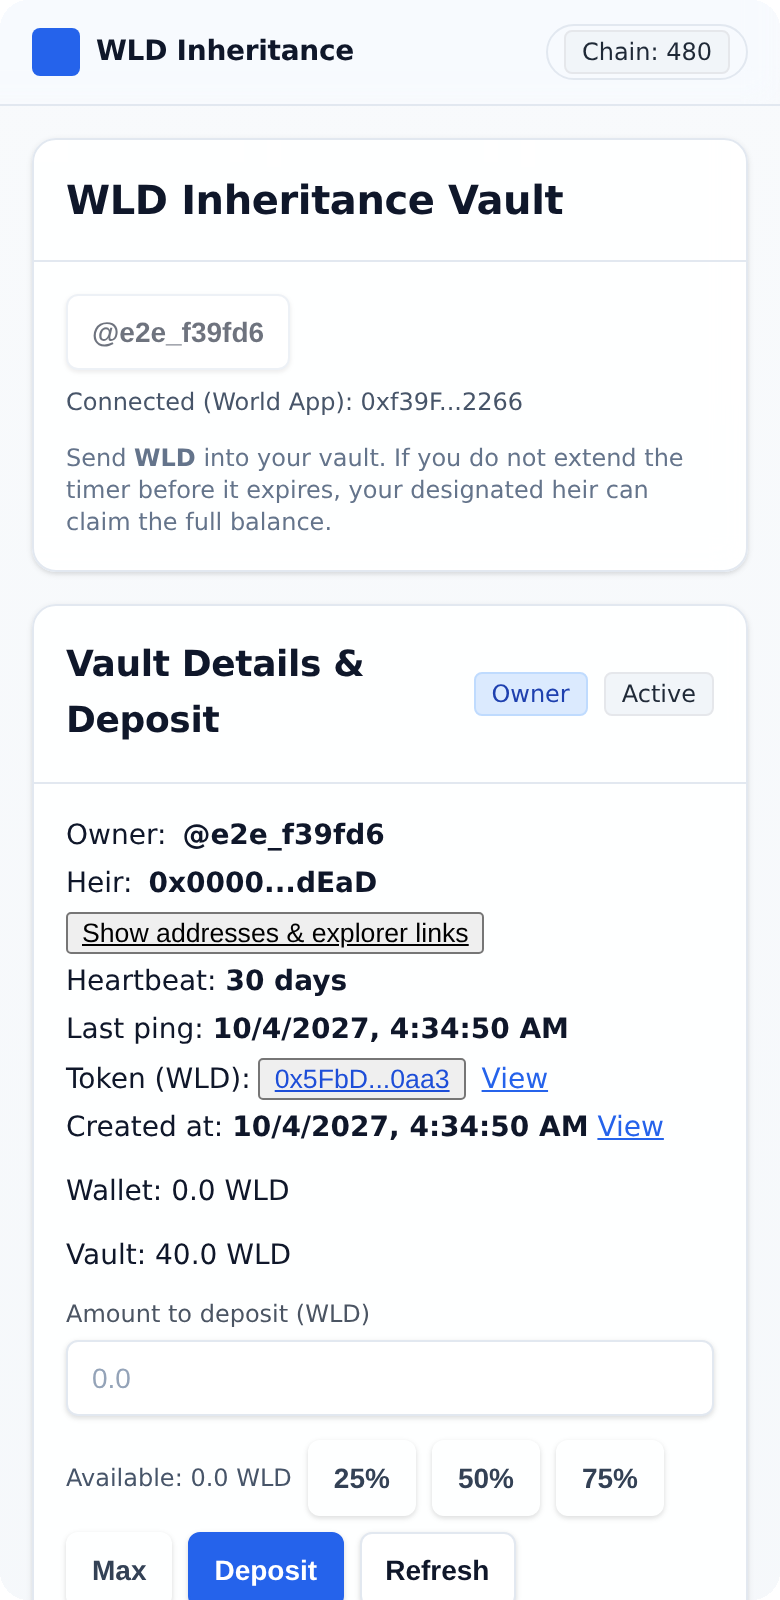
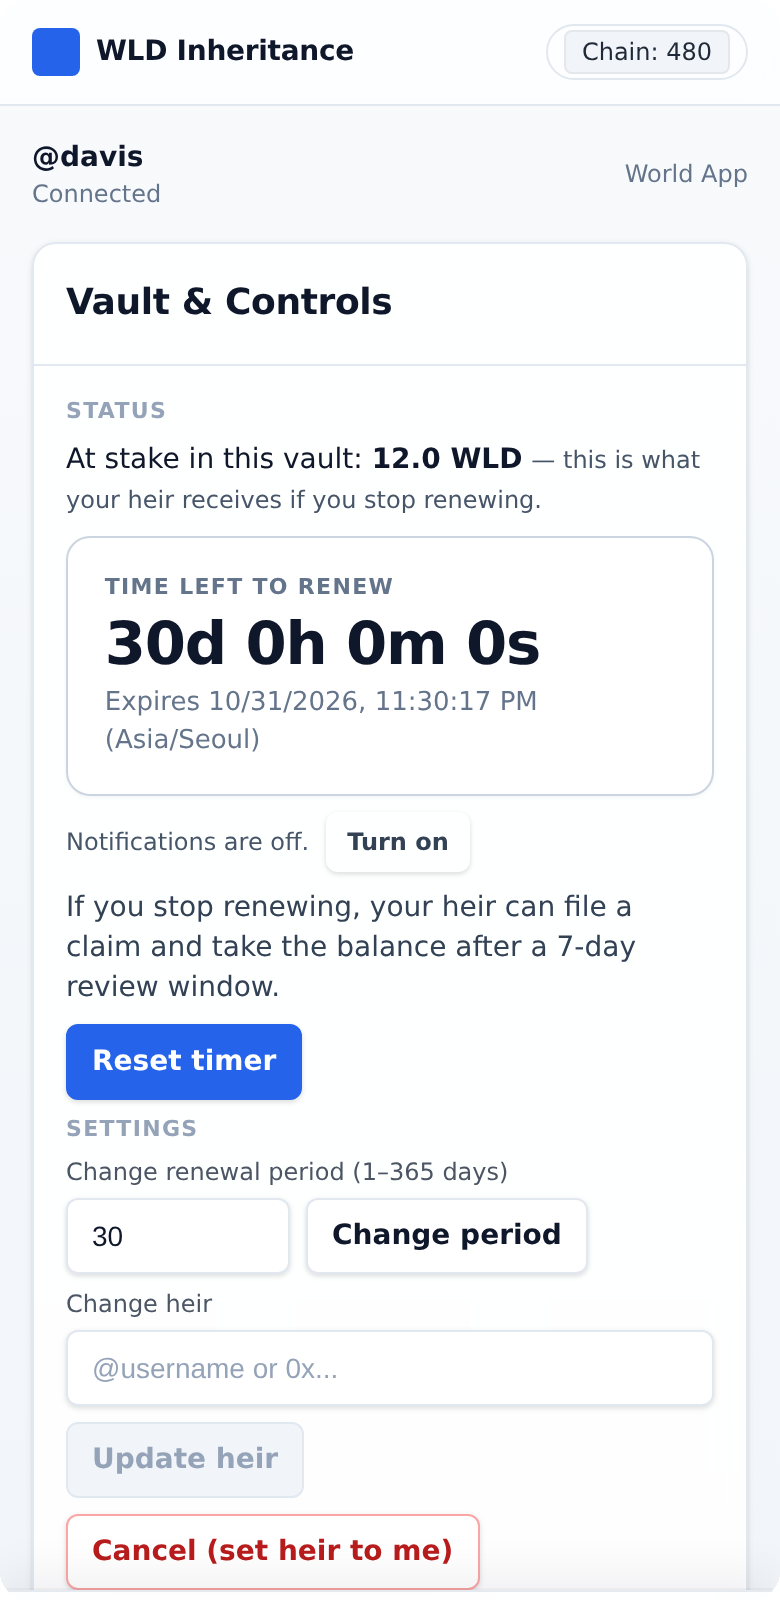
스토어 이미지 전부 다시 만들기 — 앱을 거짓으로 설명하던 이미지
store 이미지 4장이 **9월 26일 빌드** 그대로였다. 앱은 그 뒤로 많이 바뀌었고, 더 중요한
문제는 이미지가 **앱과 반대**를 말하고 있었다.

1. showcase_1: "After expiry the balance passes to your heir and cannot be recovered."
   앱이 방금 고친 바로 그 오독이다. 앱 화면은 "실제로 인출할 때까지 아무 때나 갱신할 수
   있다"고 말하는데, 스토어 이미지가 "회수 불가" 라고 적혀 있었다. **이미지가 앱보다
   위험한 설명을 하면** 리뷰어는 "앱이 오해를 만든다"고 읽는다.
2. hero: 훨씬 옛 빌드. `@e2e_f39fd6`, 테스트 토큰 주소, 그리고 퍼센트 버튼이 2/2/1로
   깨져 있던 모습까지 그대로.
3. meta_tag: **"one audited factory"** — 이 앱에는 독립 보안 감사가 없다(내부 리뷰와
   126개 forge 테스트는 공개된 독립 감사가 아니다). 감사받지 않은 앱이 감사받은 것처럼
   적힌 셈이다. "World Chain, allowlisted contracts" 로 바꿨다 — 검증 가능한 사실.

**원인을 구조로 막았다**

`make-store-images.py` 가 `/tmp/qa/store` 에 손으로 모아 둔 파일을 읽고 있었다. 앱이
바뀌어도 이미지는 옛 화면으로 남는다 — 실제로 그랬다. 이제 `scripts/verify/store-shots.mjs` 가
체인과 브라우저를 직접 구동해 원본을 찍고, 그 파이프라인이 깨지면 `make-store-images.py` 가
파일부터 못 찾고 멈춘다. **앱이 바뀌면 이미지를 다시 찍어야 한다.**

앯ergen 만들고 나서 판단한 것들

- 스토어 이미지에는 `@e2e_3c44cd` 같은 테스트 계정이 있으면 안 된다. 리뷰어가 "테스트
  빌드를 찍었네" 하고 읽는다. 하네스는 `/@e2e_/` 로 로그인 성공을 판정하므로 접두어를
  지우면 깨진다 → `window.__E2E_USERNAMES__` 로 **주소별** 이름을 주입한다. 한 이름만
  주니까 주인과 상속인이 한 사람(`@davis` → `@davis`)으로 찍혔다. 상속 절차 앱에서 서로
  다른 두 사람이 핵심이라 맵으로 받아야 한다.
- 폼을 빈 채로 찍지 않는다. 그러면 "모든 것이 회색으로 죽은 화면" 이 된다. 상속인 칸을
  채워 해결 주소까지 뜨는的모양으로 찍으면 `Create vault` 가 살아서, **쓸 수 있는 앱**으로
  읽힌다.
- 하단을 잘라야 한다. 캡처를 그대로 두면 상속인 링크가 **주소 중간에서** 잘린 채 스토어에
  오른다. 반쪽 주소는 사람이 만든 티가 나고, 잘린 텍스트는 화면이 깨진 것보다 나쁘다.

진짜 버그 하나: 상속인 링크가 래퍼를 가리킬 수 있었다

`heirLink` 이 `window.location.origin` 을 그대로 썼다. World App 안에서 이 값이 **미니앱
[…]

diff --git a/app/src/test/minikit-stub.ts b/app/src/test/minikit-stub.ts
@@ -91,7 +91,22 @@ export const MiniKit = {
     return state.installed;
   },
   async getUserByAddress(addr: string) {
-    return { username: `e2e_${addr.slice(2, 8).toLowerCase()}` };
+    // 스토어 스크린샷에서 `@e2e_3c44cd` 같은 테스트 계정이 보이면 리뷰어가 "테스트 빌드를
+    // 찍었네" 하고 읽는다. 하네스는 `/@e2e_/` 로 로그인 성공을 판정하므로 접두사를 지우면
+    // 그 검사가 깨진다. 그래서 기본값은 그대로 두고, **스크린샷 전용**으로 호출 측이 이름을
+    // 심으면 그걸 쓴다 (drv.mjs 의 preload 경로).
+    //
+    // `__E2E_USERNAMES__` 은 **주소별 맵**이다. 한 이름만 받으면 모든 지갑이 같은 이름으로
+    // 보여 주인과 상속인이 한 사람처럼 찍힌다(실제로 그렇게 찍혔다 — "Tell your heir" 가
+    // "Reaches @davis" 라고 해서 자기 자신에게 보내라는 안내가 되었다). 상속 절차 앱에서
+    // **서로 다른 두 사람** 이라는 게 핵심이라 맵으로 받아야 한다.
+    const w = typeof window !== "undefined" ? (window as unknown as {
+      __E2E_USERNAME__?: string;
+      __E2E_USERNAMES__?: Record<string, string>;
+    }) : {};
+    const byAddr = w.__E2E_USERNAMES__?.[addr.toLowerCase()];
+    if (byAddr) return { username: byAddr };
+    return { username: w.__E2E_USERNAME__ || `e2e_${addr.slice(2, 8).toLowerCase()}` };
   },
   async getUserByUsername(handle: string) {
     const { ethers } = await import("ethers");

diff --git a/app/src/config.ts b/app/src/config.ts
@@ -62,6 +62,23 @@ export const RELEASE_SUPPORTED =
 export const NOTIFY_BACKEND_URL = (raw.VITE_NOTIFY_BACKEND_URL ?? "").trim().replace(/\/+$/, "");
 export const NOTIFY_BACKEND_ENABLED = NOTIFY_BACKEND_URL.length > 0;
 
+/**
+ * 상속인에게 보낼 링크의 기준 주소.
+ *
+ * 예전에는 `window.location.origin` 을 그대로 썼다. 문제는 World App 안에서 이 값이
+ * **앱의 공개 주소라는 보장이 없다**는 것이다 — 미니앱은 클라이언트가 프록시해서
+ * 보여주므로 origin 이 래퍼일 수 있다. 그러면 "Copy link" 로 복사한 것이 래퍼를 가리키고,
+ * 상속인이 그 링크를 열면 앱으로 못 가는 링크가 된다. 상속 절차는 **링크가 유일한
+ * 전달 수단** 이므로(알림은 상속인이 이 앱을 깔았어야만 닿는다) 이 링크가 틀리면
+ * 상속 자체가 성립하지 않는다.
+ *
+ * 그래서 배포 시 `VITE_APP_ORIGIN` 을 명시한다. 값이 없으면 `window.location.origin`
+ * 으로 물러나므로 로컬 개발과 기존 배포는 그대로 동작한다.
+ */
+export const APP_ORIGIN =
+  (raw.VITE_APP_ORIGIN ?? "").trim().replace(/\/+$/, "") ||
+  (typeof window !== "undefined" ? window.location.origin : "");
+
 /** 팩토리 배포 블록. 없으면 로그 조회 범위 축소를 위한 폴백 경로를 사용한다. */
 export const FACTORY_DEPLOY_BLOCK: number | null = (() => {
   const parsed = Number.parseInt((raw.VITE_FACTORY_DEPLOY_BLOCK ?? "").trim(), 10);

diff --git a/app/src/App.tsx b/app/src/App.tsx
@@ -7,6 +7,7 @@ import { Card, CardContent, CardHeader, CardTitle } from "@/components/ui/card";
 import { Input } from "@/components/ui/input";
 import type { ReactElement } from "react";
 import {
+  APP_ORIGIN,
   CHAIN_ID,
   CONFIG_ERROR,
   EXPLORER,
@@ -1573,7 +1574,10 @@ export default function App() {
   // 월드앱 알림은 이 미니앱을 설치하지 않은 지갑에 도달하지 못한다. 그래서
   // 상속인이 알게 되는 유일한 확실한 경로는 주인이 직접 보내는 링크다.
   // 앱이 설치되어 있든 없든 이 링크는 통한다.
-  const heirLink = vault ? `${window.location.origin}/?vault=${vault}` : "";
+  // `APP_ORIGIN` = 배포 시 명시한 공개 주소. World App 안에서 `window.location.origin` 은
+  // 래퍼일 수 있고, 그 링크를 받은 상속인은 앱으로 못 갈 수 있다. 상속 절차의 유일한
+  // 전달 수단이 이 링크이므로 배포 설정을 우선한다(config.ts 의 APP_ORIGIN 참고).
+  const heirLink = vault ? `${APP_ORIGIN}/?vault=${vault}` : "";
   const heirMessage = vault && vaultHeir
     ? [
         `You are named as the heir of a WLD vault.`,

diff --git a/scripts/make-store-images.py b/scripts/make-store-images.py
@@ -2,28 +2,39 @@
 """
 앱 스토어용 이미지를 만든다.
 
-규격 참고 (World App 제출용):
-  hero        : 세로형. 전체 화면 캡처를 그대로 쓰되 너무 길면 상단만 자른다.
-  meta_tag    : 1200x630 (16:9 OG 이미지). 모바일 캡처를 그대로 넣으면
-                화면이 postage-stamp 처 보이므로, 브랜드 띠를 얹어landscape 로 만든다.
-  showcase    : 세로형 스크린샷 (1장)
+입력: `scripts/verify/store-shots.mjs` 가 만든 원본 캡처 (scripts/verify/ 가 체인·브라우저를
+직접 구동해 찍는다). 예전처럼 `/tmp/qa/store` 에 손으로 모아 둔 파일을 쓰지 않는다 —
+그러면 **앱이 바뀌어도 이미지는 옛 화면 그대로 남는다.** 실제로 그렇게 됐고,
+"After expiry the balance … cannot be recovered" 라는 **앱이 보장하지 않는 설명**이
+리뷰어에게 그대로 제출됐다.
 
-출력은 app/public/store/ 에 넣고, push 하면 Pages 가 곧바로 배포해
-https://inheritance.pages.dev/store/<name>.png 로 공개 URL 이 생긴다.
-MCP upload_app_image 은 source_url 을 받으므로 base64 를 컨텍스트에 흘리지 않는다.
+원본 캡처 경로:
+  RAW = /tmp/wld-verify/shots/store-*.png   (store-shots.mjs 가 만든다)
+
+규격:
+  hero        : 세로. 스토어 목록에서 잘리지 않게 상단만 자른다.
+  showcase_N  : 세로 스크린샷. 1장 이상 필요.
+  content_card: 미니앱 필수. 세로, 카드용으로 조금 더 짧게.
+  meta_tag    : 1200x630 (16:9 OG 이미지).
+
+주의: 여기서 **문구를 덧씌우지 않는다.** 캡처에 보이는 문장이 곧 앱이 말하는 문장이어야
+한다. 이미지 도구로 "더 좋은 설명"을 입히는 순간, 스토어가 앱과 다른 약속을 하게 된다.
 """
 import pathlib
+import subprocess
+import sys
+
 from PIL import Image, ImageDraw, ImageFont
 
-SRC = pathlib.Path("/tmp/qa/store")
-DST = pathlib.Path("/home/davis/world-inheritance-miniapp/app/public/store")
+REPO = pathlib.Path(__file__).resolve().parent.parent
+RAW = pathlib.Path("/tmp/wld-verify/shots")
+DST = REPO / "app/public/store"
 DST.mkdir(parents=True, exist_ok=True)
 
 BG = (248, 250, 252)
 INK = (15, 23, 42)
 MUTED = (71, 85, 105)
 ACCENT = (2, 132, 199)
-CARD = (255, 255, 255)
 
 
 def font(size, bold=False):
@@ -39,8 +50,6 @@ def font(size, bold=False):
 
 
 def rounded(img, radius):
-    """모서리를 둥글게 깎는다 (알파)."""
-    from PIL import ImageDraw
     mask = Image.new("L", img.size, 0)
     ImageDraw.Draw(mask).rounded_rectangle([0, 0, img.size[0] - 1, img.size[1] - 1], radius, fill=255)
     out = img.convert("RGBA")
@@ -48,47 +57,73 @@ def rounded(img, radius):
     return out
 
 
+def load(name):
+    p = RAW / f"{name}.png"
+    if not p.exists():
+        print(f"원본 없음: {p}", file=sys.stderr)
+        print("먼저 `FACTORY=... node scripts/verify/store-shots.mjs` 를 돌린다.", file=sys.stderr)
+        sys.exit(2)
+    return Image.open(p).convert("RGB")
+
+
+def cap_h(img, max_h):
+    """세로 길이만 제한한다. 가로는 그대로 (스토어는 세로 카드다)."""
+    return img.crop((0, 0, img.width, min(img.height, max_h))) if img.height > max_h else img
+
+
 # ---------------------------------------------------------------- hero
-hero_src = Image.open(SRC / "hero.png").convert("RGB")
-# 스토어 목록에서 잘리지 않도록 세로 길이를 정리 (긴 캡처는 하단을 자른다)
-max_h = 1600
-if hero_src.height > max_h:
-    hero_src = hero_src.crop((0, 0, hero_src.width, max_h))
-hero = rounded(hero_src, 28)
+hero = rounded(cap_h(load("store-2-countdown"), 1600), 28)
 hero.save(DST / "hero.png", optimize=True)
 print(f"hero.png          {hero.size}")
 
-# ------------------------------------------------------- showcase (세로)
-show = Image.open(SRC / "showcase-timer.png").convert("RGB")
-show = rounded(show, 24)
+# ---------------------------------------------------------------- showcase
+# 파이프라인("지금 여기")과 상속인 전달 카드가 같이 보이는 화면. 이 앱의 값 설명이
+# 가장 온전히 들어 있는 한 장이다.
+# 하단을 잘라야 한다. 캡처를 그대로 두면 "Copy link" 아래의 상속인 링크가 **주소 중간에서
+# 잘린 채** 스토어에 오른다 — 반쪽 주소는 사람이 만든 티가 나고, 잘린 텍스트는 화면이
+# 깨진 것보다 나쁘다. "Copy link / Copy message" 버튼 아래 여백에서 자른다.
+show = rounded(cap_h(load("store-3-steps"), 1540), 24)
 show.save(DST / "showcase_1.png", optimize=True)
 print(f"showcase_1.png    {show.size}")
 
-# ------------------------------------------------------------ meta tag
+# 두 번째 showcase: 첫 진입 화면. "무엇을 하는 앱인지" 를 처음 보는 사람이 보는 얼굴.
+show2 = rounded(cap_h(load("store-1-create"), 1700), 24)
+show2.save(DST / "showcase_2.png", optimize=True)
+print(f"showcase_2.png    {show2.size}")
+
+# ---------------------------------------------------------------- content card
+# 미니앱 필수 이미지. 스토어 카드에 작게 뜨므로 세로로 길면 글자가 못 읽힌다.
+cc = cap_h(load("store-2-countdown"), 1200)
+cc = rounded(cc, 24)
+cc.save(DST / "content_card.png", optimize=True)
+print(f"content_card.png  {cc.size}")
+
+# ---------------------------------------------------------------- meta tag
 W, H = 1200, 630
 meta = Image.new("RGB", (W, H), BG)
 d = ImageDraw.Draw(meta)
-
-# 왼쪽: 텍스트
 d.rectangle([0, 0, 8, H], fill=ACCENT)
-d.text((72, 132), "Inheritance", font=font(64, True), fill=INK)
-d.text((72, 224), "A time-based WLD", font=font(34), fill=MUTED)
-d.text((72, 270), "inheritance vault", font=font(34), fill=MUTED)
+d.text((72, 112), "Inheritance", font=font(62, True), fill=INK)
+d.text((72, 202), "A WLD vault that goes to", font=font(31), fill=MUTED)
+d.text((72, 244), "someone you choose — if you stop.", font=font(31), fill=MUTED)
 
 facts = [
-    ("Non-custodial", "keys stay in World App"),
-    ("On-chain", "World Chain, verified contracts"),
-    ("Countdown", "renew, or the heir can claim"),
+    ("Non-custodial", "keys and funds stay in World App"),
+    # "audited" 라고 쓰면 안 된다. 이 앱에는 **독립 보안 감사가 없다** — 내부 감사
+    # (서브에이전트 리뷰와 126개 forge 테스트)는 공개된 독립 감사와 같지 않다.
+    # 스토어 이미지는 사용자가 가장 먼저 읽는 약속인데, 감사받지 않은 앱이 감사받은
+    # 것처럼 적히면 그것 자체가 오류다. 말하는 것은 **검증 가능한 사실** 로 바꾼다.
+    ("On-chain", "World Chain, allowlisted contracts"),
+    ("Always revocable", "renew at any time to pull it back"),
 ]
-y = 360
+y = 330
 for k, v in facts:
     d.ellipse([72, y + 9, 84, y + 21], fill=ACCENT)
     d.text((100, y), k, font=font(24, True), fill=INK)
     d.text((100, y + 32), v, font=font(20), fill=MUTED)
-    y += 84
+    y += 82
 
-# 오른쪽: 실제 앱 화면
-thumb = Image.open(SRC / "hero.png").convert("RGB")
+thumb = Image.open(RAW / "store-2-countdown.png").convert("RGB")
 scale = 560 / thumb.height
 thumb = thumb.resize((max(1, int(thumb.width * scale)), 560), Image.LANCZOS)
 thumb = rounded(thumb, 18)
@@ -98,8 +133,7 @@ ImageDraw.Draw(shadow).rounded_rectangle(
 )
 meta.paste(shadow, (W - thumb.width - 120, 35), shadow)
 meta.paste(thumb, (W - thumb.width - 100, 15), thumb)
-
-d.text((72, H - 56), "inheritance.pages.dev", font=font(18), fill=MUTED)
+d.text((72, H - 44), "inheritance.pages.dev", font=font(18), fill=MUTED)
 meta.save(DST / "meta_tag.png", optimize=True)
 print(f"meta_tag.png      {meta.size}")
 
@@ -110,7 +144,10 @@ di.rounded_rectangle([0, 0, 511, 511], 112, fill=INK)
 di.polygon([(256, 96), (416, 176), (416, 336), (256, 416), (96, 336), (96, 176)], outline=ACCENT, width=22)
 di.ellipse([228, 228, 284, 284], fill=ACCENT)
 icon.resize((512, 512), Image.LANCZOS).save(DST / "logo.png", optimize=True)
-print(f"logo.png          (512, 512)")
+print("logo.png          (512, 512)")
 
+print()
 for p in sorted(DST.glob("*.png")):
-    print(f"  {p.name:20} {p.stat().st_size/1024:7.1f} KB")
+    kb = p.stat().st_size / 1024
+    warn = "  ← 500KB 초과, 업로드 거절된다" if kb > 500 else ""
+    print(f"  {p.name:20} {kb:7.1f} KB{warn}")
